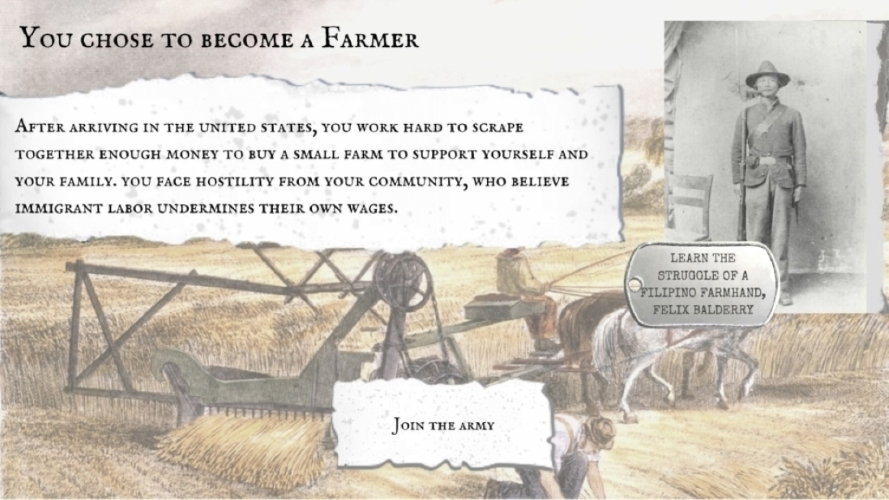
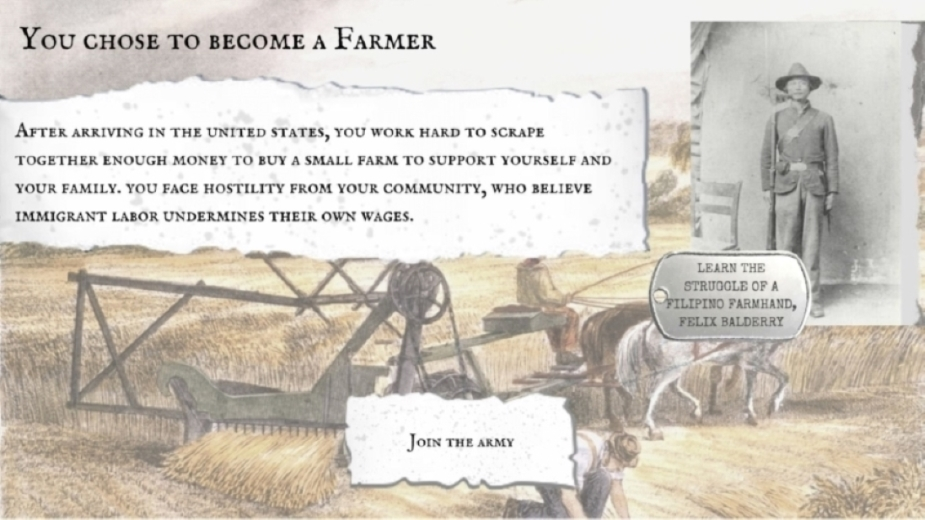
testing removing bottom padding

diff --git a/antietam.html b/antietam.html
@@ -43,7 +43,36 @@
       <div class="site-mobile-menu-body"></div>
     </div>
 
+    <header class="site-navbar js-sticky-header site-navbar-target" role="banner">
+      <div class="container">
+        <div class="row align-items-center">
+          <div class="col-6 col-md-3 col-xl-4  d-block">
+            <h1 class="mb-0 site-logo"><a href="index.html" class="text-black h2 mb-0">AACW<span class="text-primary">.</span> </a></h1>
+          </div>
+          <div class="col-12 col-md-9 col-xl-8 main-menu">
+            <nav class="site-navigation position-relative text-right" role="navigation">
+
+              <ul class="site-menu main-menu js-clone-nav mr-auto d-none d-lg-block ml-0 pl-0">
+                <li><a href="index.html" class="nav-link">Home</a></li>
+                <li class="has-children">
+                  <a class="nav-link">About</a>
+                  <ul class="dropdown arrow-top">
+                    <li><a href="our_mission.html" class="nav-link">Our Mission</a></li>
+                    <li><a href="the_team.html" class="nav-link">The Team</a></li>
+                    <li><a href="contact_us.html" class="nav-link">Contact Us & <br/>Get Involved</a></li>
+                    <!-- <li><a href="endorsements.html" class="nav-link">Endorsements</a></li> -->
+                  </ul>
+                </li>
+                <li><a href="individual_stories.html" class="nav-link">Stories of Heroism</a></li>
+              </ul>
+            </nav>
+          </div>
+          <div class="col-6 col-md-9 d-inline-block d-lg-none ml-md-0" ><a href="#" class="site-menu-toggle js-menu-toggle text-black float-right"><span class="icon-menu h3"></span></a></div>
+        </div>
+      </div>
+    </header>
     <div class="site-blocks-cover" style="overflow: hidden;">
+      <br/>
       <div id="antietam-scene">
         <div id ="container">
             <button onclick="location.href='mcclellan_mead_burnside.html'" type="button" id ="choose-another-battle"></button>
@@ -52,7 +81,7 @@
       </div>
     </div>
     
-    <div class="footer py-5 text-center">
+    <div class="footer text-center" style="padding-bottom: 10px;">
         <div class="container">
           <div class="row">
             <div class="col-md-12">

diff --git a/farmer_in_america.html b/farmer_in_america.html
@@ -44,7 +44,6 @@
     </div>
 
     <header class="site-navbar js-sticky-header site-navbar-target" role="banner" style="padding-bottom: 0;">
-
       <div class="container">
         <div class="row align-items-center">
           
@@ -79,10 +78,6 @@
       </div>
       
     </header>
-    <!-- <br/>
-    <br/>
-    <br/>
-    <br/> -->
     
     <div class="site-blocks-cover" style="overflow: hidden;">
       <div id="farmer-in-america">

diff --git a/css/bootstrap/bootstrap-grid.css b/css/bootstrap/bootstrap-grid.css
@@ -1905,9 +1905,9 @@ html {
   padding-right: 1.5rem !important; }
 
 .pb-4,
-/* .py-4 {
+.py-4 {
   padding-bottom: 0rem !important; 
-} */
+}
 
 .pl-4,
 .px-4 {
